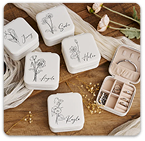
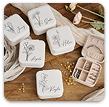
style: ajustes

diff --git a/templates/partials/cardsCarousel.html b/templates/partials/cardsCarousel.html
@@ -17,7 +17,7 @@
         <div class="cards">
 
             <div class="card current-card">
-                {% include 'products/partials/card.html' with url='media/caixaDeJoias.png' description='Caixa de Joias' off=True text='20' price='R$ 22,00' %}
+                {% include 'products/partials/card.html' with url='media/caixaDeJoias.jpg' description='Caixa de Joias' off=True text='20' price='R$ 22,00' %}
             </div>
             <div class="card">
                 {% include 'products/partials/card.html' with url='media/faixinhas_rosas.png' description='Faixinhas Rosas'  price='R$ 44,00' envioRapido=True %}

diff --git a/templates/index.html b/templates/index.html
@@ -9,9 +9,9 @@
 
   {% block main %}
   <main id="mainIndex">
-
+    
+    {% include "partials/advertisingCarousel.html" %}
       {% include "chats/partials/chat-icon.html" %}
-      {% include "partials/advertisingCarousel.html" %}
 
 
       <section id="achadinhos" class="sec">

diff --git a/static/css/partials/advertisingCarousel.css b/static/css/partials/advertisingCarousel.css
@@ -51,8 +51,8 @@
 }
 
 .arrow-left .carousel-control-prev-icon, .arrow-right .carousel-control-next-icon{
-  width: 48px;
-  height: 48px;
+  width: 40px;
+  height: 40px;
   background-size: contain;
   background-repeat: no-repeat;
   background-position: center;

diff --git a/apps/chats/static/css/partials/chat-icon.css b/apps/chats/static/css/partials/chat-icon.css
@@ -3,8 +3,8 @@
     transition: transform 0.3s ease-in-out;
     position: fixed;
     z-index: 1000;
-    bottom: 1.5rem;   
-    right: 1.5rem;  
+    bottom: 1.2rem;   
+    right: 1rem;  
     width: 60px;
     height: 60px;
 }
